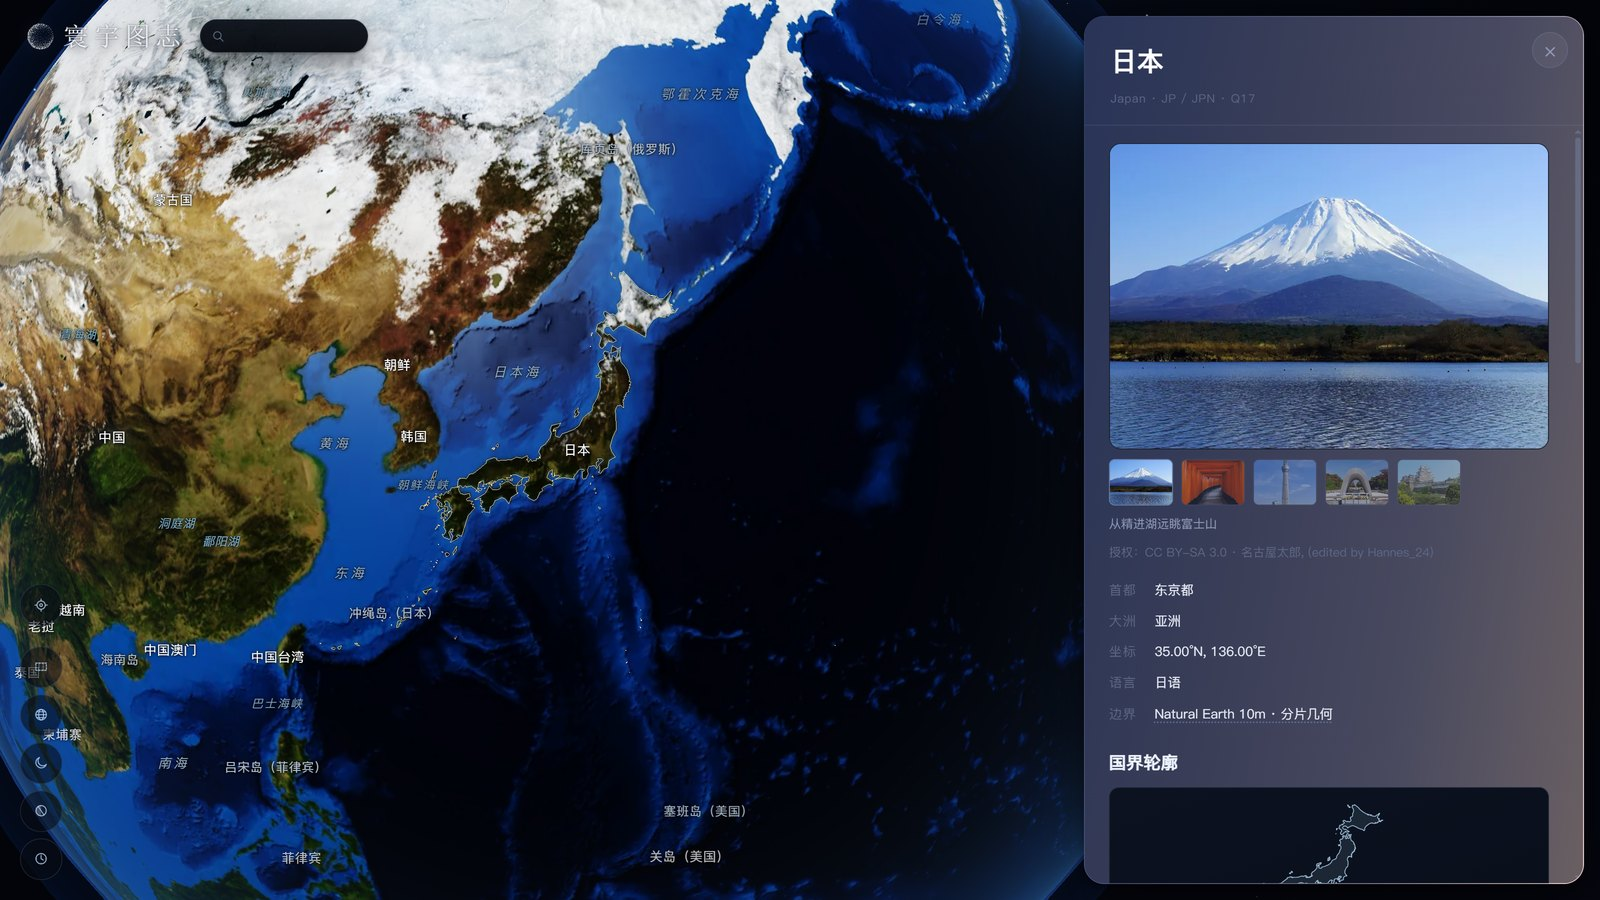
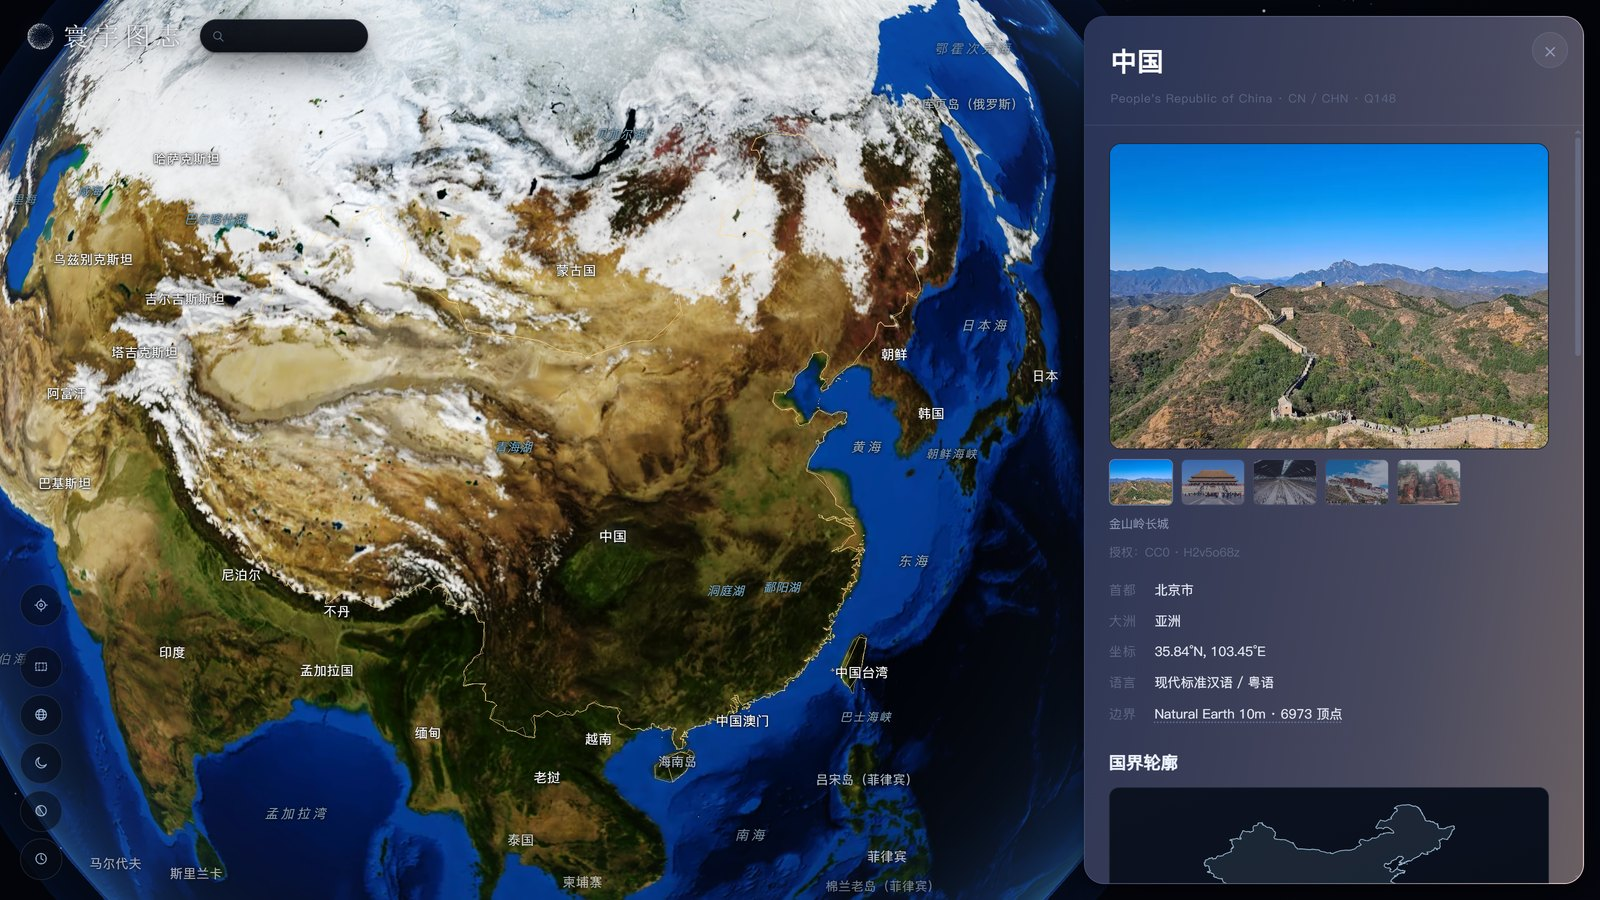
docs: 重写「这是什么」，按档案卡实际内容逐条说明；截图换成中国

diff --git a/README.md b/README.md
@@ -12,9 +12,24 @@
 
 ## 这是什么
 
-把「国家的百科条目」放到一颗可以拖动、可以放大的地球上。点任意一个国家，镜头会飞过去、
-勾出它的国界，右侧展开一张档案卡：地标照片、首都与坐标、语言与发音、一段地理人文短文，
-以及几组关于这个国家的小问答。
+一颗可以拖动、可以放大的 3D 地球，上面有国界、地名和地标。点任意一个国家，镜头飞过去、
+把边界勾成金色，右侧展开一份档案。
+
+档案里按顺序是这些东西：
+
+- **地标照片**——首图 + 缩略图条，可以来回切；照片下面是中文图注和「授权 / 作者」，
+  竖构图的照片会自动改成完整装下而不是裁切
+- **五行事实**——首都、大洲、中心坐标、语言、国界数据的来源与顶点数
+- **国界轮廓图**——等距圆柱投影画的 SVG，从分片几何里现取，不依赖任何地图库
+- **三段正文**——概况、历史、民俗，关键词会在文中标注出来
+- **文化特征**——关键词、节庆、饮食、宗教、建筑、遗产六组标签；
+  鼠标停在任意一个标签上，能看到它抽取时的**原文依据**
+- **语音**——每种语言一条播放器，配原文和中文翻译；没有对应音色的语种会如实写「暂无语音」，
+  不用邻近语种硬读冒充
+
+搜索框则做另一件事：**可以直接拿自然语言提问**，「法国人吃什么」「埃及有什么宗教」
+都行，答案来自构建期为每个国家写的 6~8 组问答对。检索在浏览器里用 2-gram + BM25 算，
+点结果会跳到那个国家、并把档案滚到相关段落——所以问答不在档案卡里，是搜索出来的。
 
 所有内容都在构建期采集、清洗、整理好，运行时是一个**纯静态页面**：没有后端、没有数据库、
 也没有运行时的大模型调用。丢进任何静态托管就能跑。
@@ -25,7 +40,7 @@
 | 可点地名 | **339** 个（240 国家 · 31 海域 · 7 大洲 · 61 岛屿与海峡） |
 | 地标影像 | **1089** 张，逐张保留授权与作者 |
 | 语言与发音 | **383** 条语言记录，**289** 段语音 |
-| 检索语料 | **1968** 篇文档，**1733** 组问答对 |
+| 检索语料 | **1968** 条（1733 组问答 + 235 条国家简介） |
 | 前端 | 单文件 `index.html`，无构建步骤 |
 
 <table>
@@ -42,9 +57,9 @@
 ## 功能
 
 - **可拖拽的 3D 地球**——带惯性的旋转与缩放、大气散射、星空、昼夜两种底图
-- **点哪儿看哪儿**——点击国界或国名飞向该国，同时高亮它的边界
-- **档案卡**——多图切换、竖构图自适应、结构化字段、正文与语音朗读
-- **一句话找国家**——中文自然语言检索，在浏览器内用 2-gram + BM25 计算，断网可用
+- **点哪儿看哪儿**——点国界或点国名都飞向该国，同时勾出它的边界
+- **国家档案卡**——地标照片、结构化事实、国界轮廓、历史民俗、文化标签、分语言语音
+- **直接提问**——「法国人吃什么」也能命中，检索在浏览器里算，断网可用
 - **时间指示**——在地图上钉一枚旗子，看当地此刻的日期时间
 - **国境线开关**——单国高亮，或一次性叠上全世界
 
@@ -128,9 +143,10 @@ spin.worldToLocal(hit.point)   // 再反算 lon/lat
 
 ### 6. 检索在浏览器里算
 
-每国 6~8 组问答对在构建期生成，合并成一份 1968 篇的语料，前端用中文 2-gram 切分 + BM25
-打分，零依赖、断网可用。两个细节决定它能不能用：**停用词**（否则"哪里能看长城"会被一条
-"首都是哪里"顶到前面）与**双重阈值**（绝对分 + 最高分的 35%，低于阈值就明确回答"没有"）。
+每国 6~8 组问答对在构建期生成，加上 235 条国家简介，合并成一份 1968 条的语料；前端用中文
+2-gram 切分 + BM25 打分，零依赖、断网可用。两个细节决定它能不能用：**停用词**（否则"哪里
+能看长城"会被一条"首都是哪里"顶到前面）与**双重阈值**（绝对分 + 最高分的 35%，低于阈值就
+明确回答"没有"）。
 
 ## 数据格式
 
